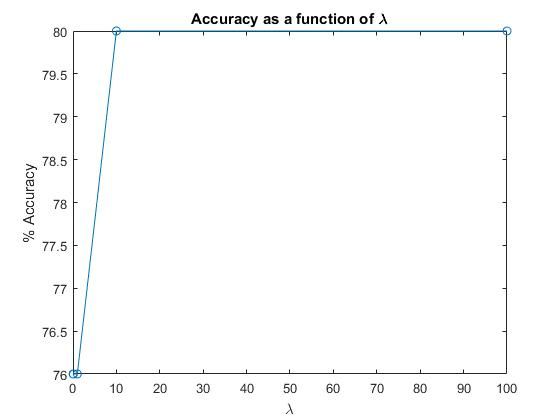
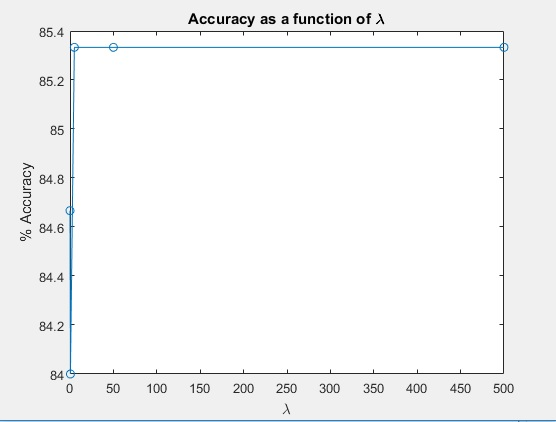
fdskjhflsdff

Changed region(s): [[0.0, 0.031, 1.0, 1.0]]

diff --git a/q2d.m b/q2d.m
@@ -1,46 +1,50 @@
-function [] = q2c()
+function [] = q2d()
 rng(9)
+
 kw = 0.25;  % Recommended RBF kernel width
+
+lambda_value = [0.005 0.5 5 50 500];
 VALD_SIZE = 50;
-
-vald_x = 10*rand(VALD_SIZE,2);
-vald_y = (vald_x(:,1) - 6).^2 + 3*(vald_x(:,2) - 5).^2 - 8;
-vald_y(vald_y > 0) = 1; vald_y(vald_y ~= 1) = -1;
-
-vald_x = normy(vald_x, vald_y);
-
-lambda_value = [0.001 0.01 0.1  1 10  100 1000];
-acc_vec = zeros(size(lambda_value))';
-
-NUM_OF_SMAPLES = 10;
-
-x = 10*rand(NUM_OF_SMAPLES,2);
+samples_for_train = 10;
+k = 3;
+x = 10*rand(max(VALD_SIZE, samples_for_train)*k,2);
 y = (x(:,1) - 6).^2 + 3*(x(:,2) - 5).^2 - 8;
 y(y > 0) = 1; y(y ~= 1) = -1;
+acc_per_samples = zeros(size(lambda_value))';
+
 
 o = 1;
-for i = lambda_value
-  Lambda = i;
-  F = SVMtrial(x,y,kw,Lambda);
-  acc = 0;
-  for j = 1:VALD_SIZE
-    fx = sign(func(vald_x(j, :), F.xT,F.y, F.a, F.b, F.kw, F.sv));
-    if isnan(fx)
-      fx = sign(rand(1,1)-0.5);
+index = 1;
+Data = kfold(x,y,k);
+for lam = lambda_value
+  Lambda = lam;
+  acc_k = zeros(k,1);
+  for i = 1:k
+    F = SVMtrial(Data.train.X(1:samples_for_train,:,i),Data.train.Y(i,1:samples_for_train)',kw,Lambda);
+    acc = 0;
+    sz = size(Data.test.X(1:VALD_SIZE,1,i));
+    sz = sz(1);
+    x_for_now = Data.test.X(1:VALD_SIZE,:,i);
+    x_for_now_but_normy = normy(x_for_now, Data.test.Y(i,1:VALD_SIZE));
+    for o = 1:sz
+      fx = sign(func(x_for_now_but_normy(o,:), F.xT,F.y, F.a, F.b, F.kw, F.sv));
+      if (fx * Data.test.Y(i,o)) > 0
+        acc = acc +1;
+      end
     end
-    if (fx * vald_y(j,:)) > 0
-      acc = acc +1;
-    end
+    acc_k(i,1) = (acc/sz);
+    o = o+1;
   end
-  acc_vec(o,:) = acc/VALD_SIZE;
-  o = o+1;
+  acc_per_samples(index) = mean(acc_k);
+  index = index+1;
 end
 
-acc_vec = acc_vec*100
-plot(lambda_value, acc_vec, '-o')
+acc_per_samples = acc_per_samples*100;
+plot(lambda_value, acc_per_samples, '-o')
 title('Accuracy as a function of \lambda');
 ylabel('% Accuracy');
 xlabel('\lambda');
+acc_per_samples
 
 
 
